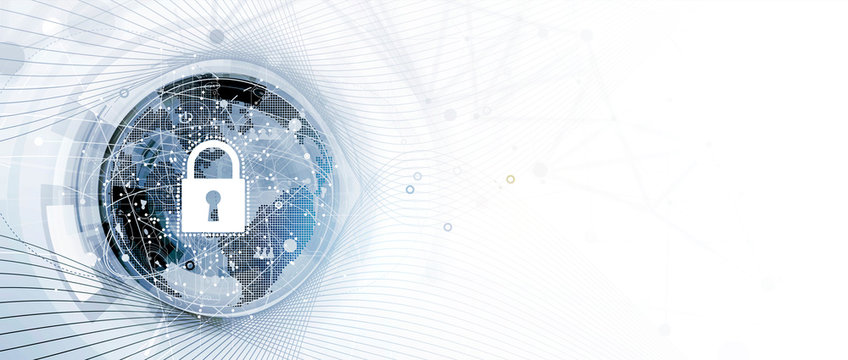
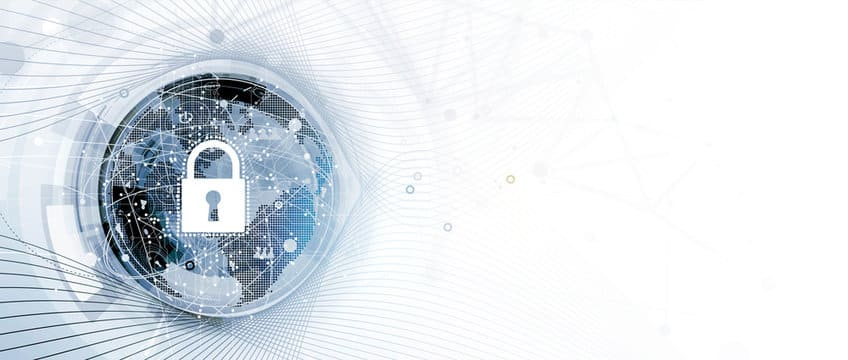
update on compress images

diff --git a/policeDashboard.html b/policeDashboard.html
@@ -133,8 +133,12 @@
                 <input type="tel" id="contactNumber" name="contactNumber" placeholder="Contact Number" required>
                 <input type="text" id="contactAddress" name="contactAddress" placeholder="Contact Address" required>
                 <input type="text" id="contactRelationship" name="contactRelationship" placeholder="Contact Relationship" required>
+                <label for="">DateCommitted</label>
                 <input type="date" id="dateCommitted" name="dateCommitted" placeholder="Date Committed" required>
+                
+                <label for="">DateConvicted</label>
                 <input type="date" id="dateConvicted" name="dateConvicted" placeholder="Date Convicted" required>
+                
                 <textarea id="sentence" name="sentence" placeholder="Sentence" required></textarea>
                 <button type="submit">Add Criminal</button>
             </form>

diff --git a/Scripts/text.js b/Scripts/text.js
@@ -114,21 +114,5 @@ document.addEventListener("DOMContentLoaded", function() {
         }
     }
 
-    async function deleteMissingPerson(personId) {
-        try {
-            const response = await fetch(`http://localhost:7000/police/missingPersons/${personId}`, {
-                method: 'DELETE',
-            });
-
-            if (!response.ok) {
-                throw new Error('Failed to delete missing person');
-            }
-
-            // Refresh the missing persons list after deletion
-            loadMissingPersons();
-            alert('Missing person deleted successfully');
-        } catch (error) {
-            console.error('Error deleting missing person:', error);
-        }
-    }
+    
 });

diff --git a/Scripts/adminDashboard.js b/Scripts/adminDashboard.js
@@ -102,6 +102,7 @@ document.addEventListener("DOMContentLoaded", function() {
         const row = document.createElement("tr");
         row.innerHTML = `
             <td>${complaint._id}</td>
+            <td>${complaint.userID}</td>
             <td>${complaint.crime}</td>
             <td>${complaint.location}</td>
             <td><img src="${complaint.evidence}" alt="Evidence" width="200" height="150"/></td>

diff --git a/Styles/index.css b/Styles/index.css
@@ -62,7 +62,11 @@ nav ul li a {
     padding: 10px 0;
     font-size: 1.2rem;
     font-weight: bold;
-    margin-top: 10px; /* Adjust as needed to provide spacing below the fixed header */
+    margin-top: 1rem; 
+    position: fixed;
+    margin-right: 5rem;
+    width: 100%;
+    display: flex;
 }
 .hero {
     text-align: center;

diff --git a/adminDashboard.html b/adminDashboard.html
@@ -73,6 +73,7 @@
                 <thead>
                     <tr>
                         <th>ID</th>
+                        <th>UserID</th>
                         <th>Crime</th>
                         <th>Location</th>
                         <th>Evidence</th>
